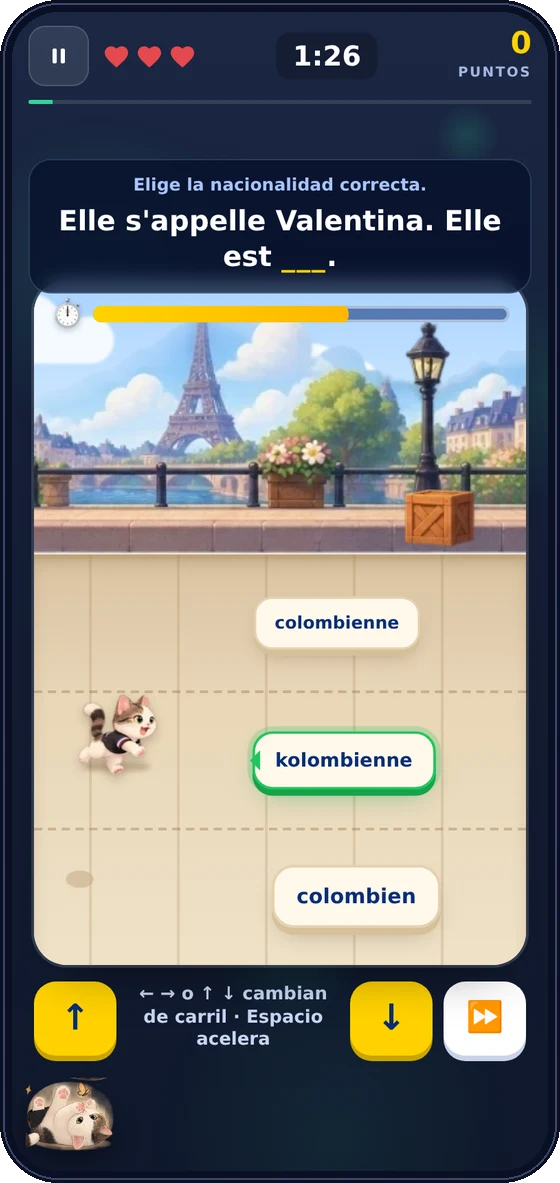
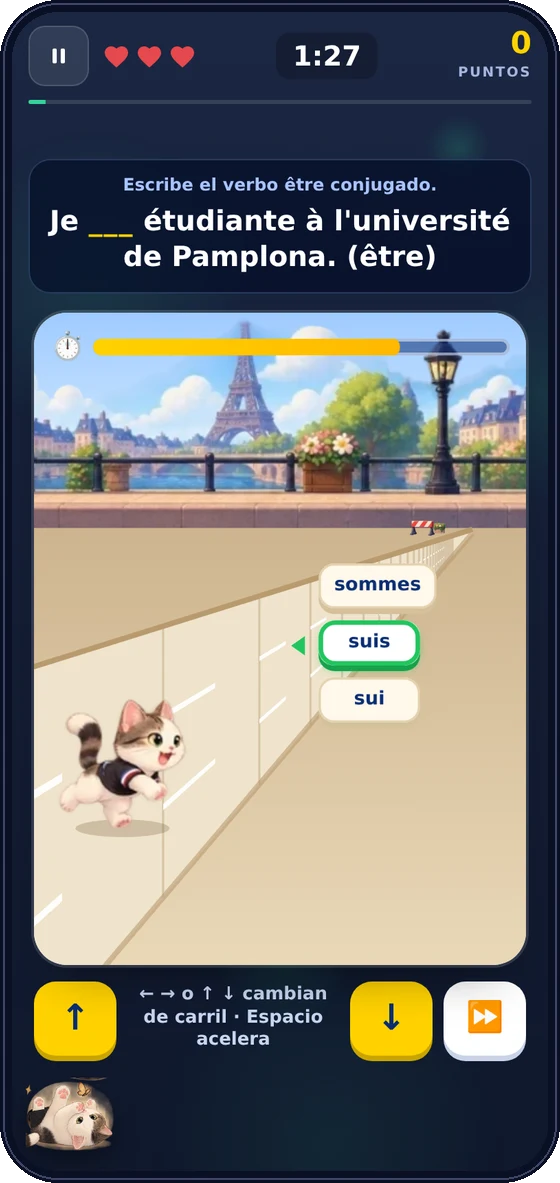
Landing: vuelve la base nocturna de antes con secciones claras de la versión nueva; captura del nuevo Grammar Run
Claude-Session: https://claude.ai/code/session_01QyuTSQLQzgh1AwAknFtfPP

diff --git a/index.html b/index.html
@@ -295,6 +295,52 @@
   footer nav { display: flex; gap: 20px; flex-wrap: wrap; align-items: center; }
   footer nav a { text-decoration: none; } footer nav a:hover { color: var(--blanco); }
 
+
+  /* ================= Mezcla: la base nocturna de antes + secciones claras de ahora ================= */
+  body { background: var(--marino-3); color: #E3EAFF; }
+  h1, h2, h3 { color: var(--blanco); }
+  .az { color: var(--amarillo); }
+  .cabeza p { color: #A9B8E6; }
+  .barra { background: rgba(6,23,63,.8); border-bottom-color: rgba(255,255,255,.08); }
+  .marca { color: var(--blanco); } .marca .am { color: var(--amarillo); }
+  .barra nav a { color: #A9B8E6; } .barra nav a:hover { color: var(--blanco); }
+  .redes-mini a { background: rgba(255,255,255,.08); border-color: rgba(255,255,255,.16); color: var(--blanco); }
+  .redes-mini a:hover { background: var(--amarillo); color: var(--tinta); }
+  .seccion:not(.clara):not(.oscura):not(.cierre) { background: radial-gradient(900px 500px at 100% 0%, rgba(30,91,215,.18), transparent 70%), var(--marino-3); }
+  .oscura { background: radial-gradient(700px 500px at 0% 0%, rgba(124,92,255,.2), transparent 70%), linear-gradient(180deg, var(--marino-2), var(--marino-3)); }
+  #conversa { background: radial-gradient(700px 500px at 90% 20%, rgba(229,72,77,.25), transparent 70%), linear-gradient(180deg, var(--marino-3), var(--marino-2)); }
+  /* tarjetas de vidrio (como el mosaico anterior) */
+  .tarjeta { background: linear-gradient(160deg, rgba(30,91,215,.28), rgba(11,45,116,.35)); border: 1px solid rgba(255,255,255,.16); box-shadow: 0 24px 50px -30px rgba(0,0,0,.7); color: #E3EAFF; }
+  .tarjeta p, .tab p, .modo p, .celda p { color: #C9D6F2; }
+  .tab .ic { background: rgba(255,255,255,.1); }
+  .tab.on { background: var(--amarillo); border-color: var(--amarillo); }
+  .tab.on h3 { color: var(--tinta); } .tab.on p { color: #3B3413; } .tab.on .ic { background: rgba(255,255,255,.55); }
+  .modo.dest { background: linear-gradient(160deg, rgba(229,72,77,.45), rgba(124,92,255,.4)); border-color: rgba(255,255,255,.2); }
+  .modo.dest p { color: #F1E8FF; }
+  .ranking p { color: #C9D6F2 !important; }
+  .chips span { background: rgba(255,255,255,.1); color: var(--blanco); }
+  .podio div { color: var(--tinta); }
+  .celda .cifra { color: var(--amarillo); }
+  .fonemas span { background: var(--blanco); color: var(--tinta); }
+  .audio-demo span { background: rgba(255,255,255,.1); color: var(--blanco); }
+  details { background: rgba(255,255,255,.07); border-color: rgba(255,255,255,.16); }
+  summary { color: var(--blanco); } summary::after { background: rgba(255,255,255,.1); }
+  details[open] summary::after { color: var(--tinta); }
+  details p { color: #C9D6F2; } details a { color: var(--amarillo); }
+  .tels img { filter: drop-shadow(0 30px 40px rgba(0,0,0,.55)); }
+  /* secciones claras: respiro en crema con tarjetas blancas */
+  .clara { background: var(--crema); color: var(--tinta); }
+  .clara h2, .clara h3 { color: var(--tinta); }
+  .clara .az { color: var(--azul); }
+  .clara .cabeza p { color: var(--gris); }
+  .clara .tarjeta { background: var(--blanco); border-color: var(--linea); box-shadow: var(--sombra); color: var(--tinta); }
+  .clara .tarjeta p { color: var(--gris); }
+  .clara .etapa.cofre { background: #FFF6CC; border-color: #F5D96B; }
+  .clara .primeros h3, .clara .primeros b { color: var(--blanco); }
+  .clara .profe[style] { border-color: transparent; }
+  .clara .gatos-fila { background: linear-gradient(120deg, #EEE9FF, #E6F0FF); border-color: #DCD4FF; }
+  .clara .gatos-fila .texto p { color: var(--gris); }
+
   @media (prefers-reduced-motion: reduce) {
     *, *::before, *::after { animation: none !important; transition: none !important; }
     html { scroll-behavior: auto; }
@@ -314,9 +360,7 @@
       <a href="#como">Cómo funciona</a>
       <a href="#juegos">Juegos</a>
       <a href="#en-linea">En línea</a>
-      <a href="#conversa">Conversa</a>
       <a href="#profesores">Profesores</a>
-      <a href="#docentes">Docentes</a>
       <a href="#preguntas">Preguntas</a>
     </nav>
     <div class="redes-mini">
@@ -391,7 +435,7 @@
   </section>
 
   <!-- Lección como aventura -->
-  <section class="seccion" style="padding-top:0">
+  <section class="seccion clara">
     <div class="envoltura">
       <div class="cabeza">
         <span class="pastilla" style="background:var(--amarillo);color:var(--tinta)">Cada lección, una aventura</span>
@@ -548,7 +592,7 @@
   </section>
 
   <!-- Profesores -->
-  <section class="seccion" id="profesores">
+  <section class="seccion clara" id="profesores">
     <div class="envoltura">
       <div class="cabeza">
         <span class="pastilla" style="background:var(--verde);color:#fff">Tus profesores</span>
